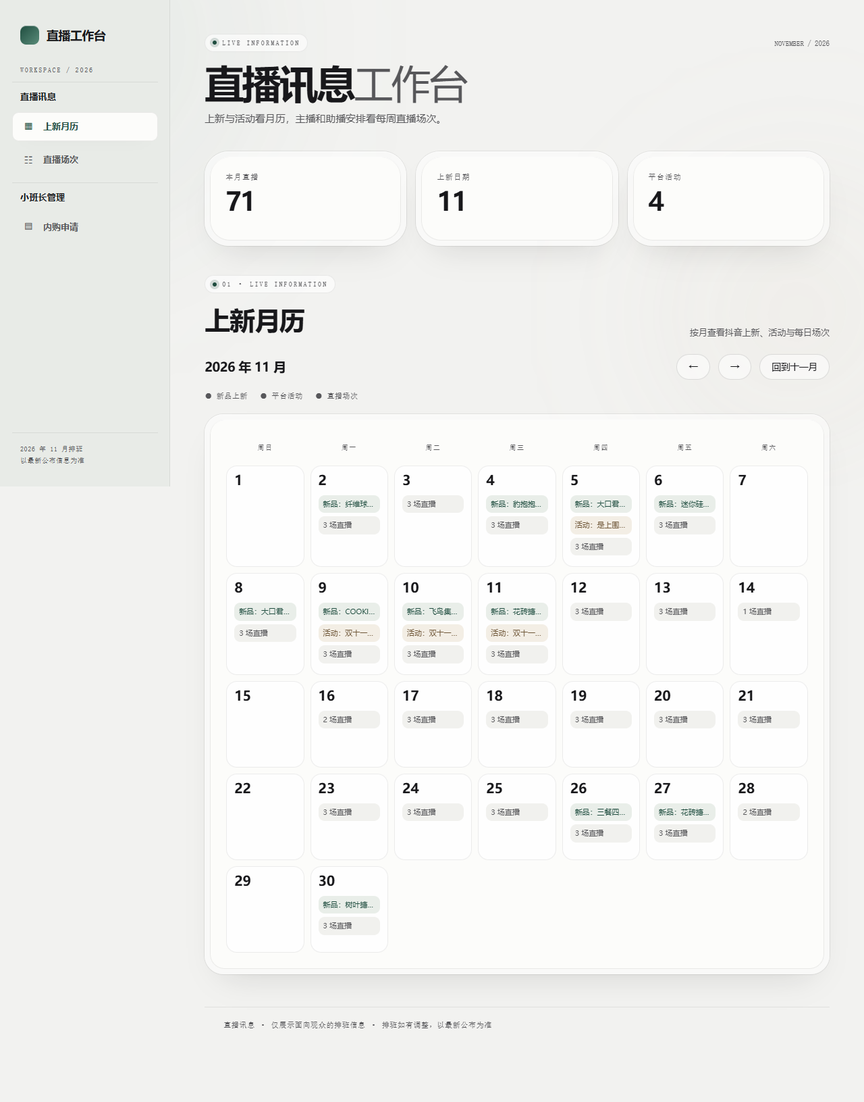
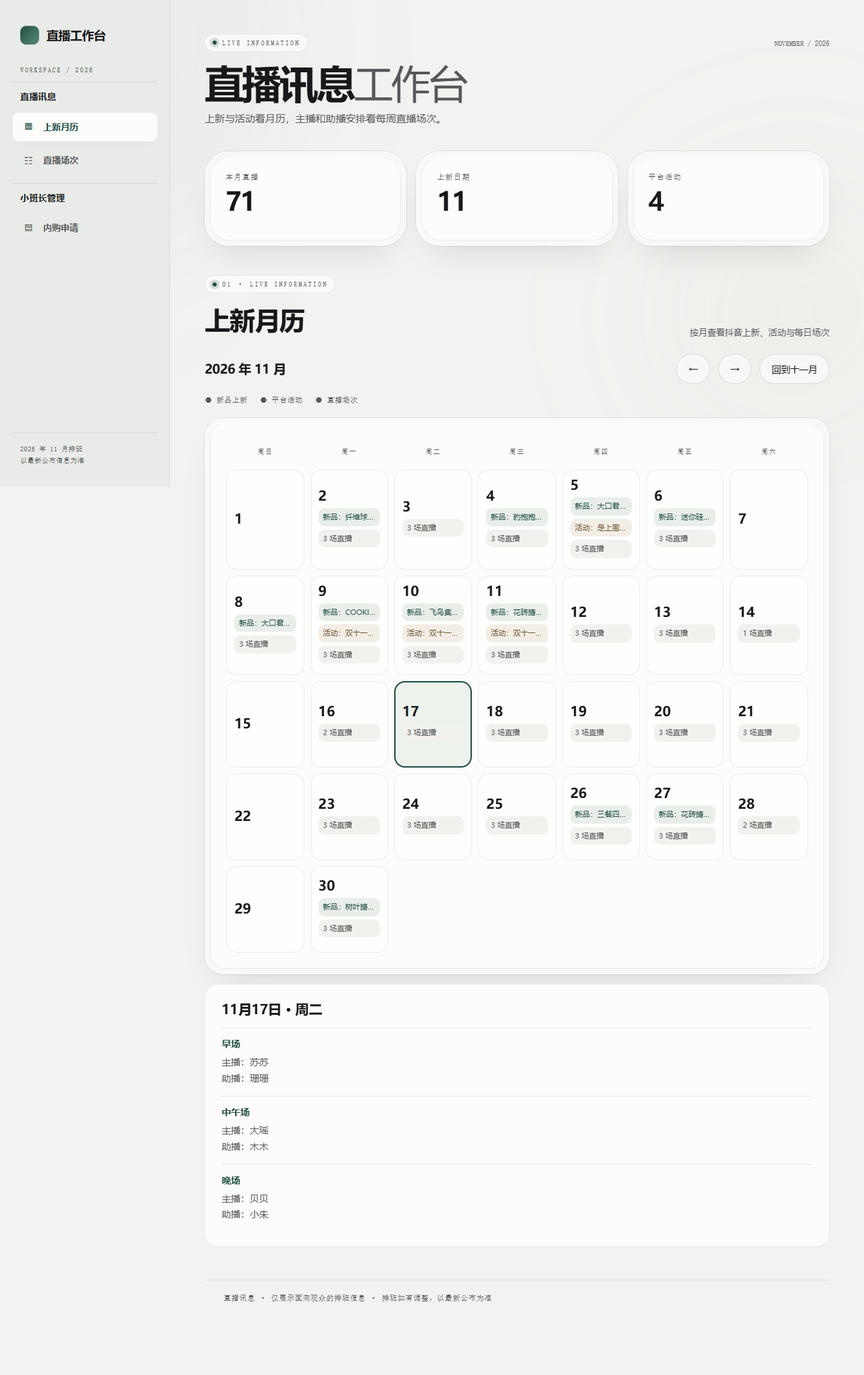
好的，现在还有一个问题，你做的这个工作台，系统排班需要跟手机显示对齐，因为小班长大部分都是用手机点开系统，基本不会用电脑，所以你的这些视图也好，提交页面也好，都得做一下手机方便看的视图，尤其是日历

diff --git a/index.html b/index.html
@@ -363,4 +363,8 @@ button{font-family:inherit} .nav button{white-space:nowrap}.nav ul button{border
 /* Workbench layout: square sidebar, soft nested content surfaces. */
 body{background:var(--canvas)}.mesh{opacity:.55}.workspace{display:grid;grid-template-columns:252px minmax(0,1fr);min-height:100dvh;position:relative;z-index:1}.sidebar{position:sticky;top:0;height:100dvh;padding:30px 18px;background:#e8ebe7;box-shadow:inset -1px 0 0 var(--hairline);display:flex;flex-direction:column}.side-brand{display:flex;align-items:center;gap:11px;padding:8px 12px 32px;font-size:18px;font-weight:700;letter-spacing:-.03em}.side-brand .brand-mark{width:28px;height:28px;border-radius:9px;background:linear-gradient(135deg,var(--accent),var(--accent-glow));box-shadow:inset 0 1px 0 rgba(255,255,255,.35)}.side-caption{font:10px var(--mono);letter-spacing:.18em;color:var(--muted);padding:0 12px 12px}.side-group{padding:12px 0;border-top:1px solid var(--hairline)}.side-group h2{font-size:13px;letter-spacing:.02em;margin:0 12px 12px;color:var(--ink)}.side-nav{display:grid;gap:5px}.side-nav button{width:100%;text-align:left;display:flex;align-items:center;gap:12px;padding:12px 14px;background:transparent;border:0;border-radius:10px;color:var(--muted);font:600 13px var(--sans);cursor:pointer;transition:background 300ms var(--ease),transform 300ms var(--ease)}.side-nav button:hover{background:rgba(255,255,255,.5)}.side-nav button.active{background:#fcfcfa;color:var(--accent);box-shadow:inset 0 0 0 1px var(--hairline),0 10px 24px -20px rgba(10,10,10,.2)}.side-nav .nav-icon{font:15px var(--mono);width:20px;text-align:center}.side-foot{margin-top:auto;padding:15px 12px 0;border-top:1px solid var(--hairline);font:10px/1.7 var(--mono);letter-spacing:.06em;color:var(--muted)}.workspace-main{min-width:0;padding:48px clamp(24px,4vw,68px) 72px;max-width:1600px;width:100%;margin:auto}.workspace-top{display:flex;align-items:flex-start;justify-content:space-between;gap:24px;margin-bottom:36px}.workspace-top h1{font-size:clamp(38px,4.5vw,64px);letter-spacing:-.04em;line-height:1.04;margin:17px 0 12px}.workspace-top p{max-width:56ch;color:var(--muted);margin:0;font-size:15px}.top-note{font:11px var(--mono);color:var(--muted);white-space:nowrap;padding-top:10px}.overview{display:grid;grid-template-columns:repeat(3,minmax(0,1fr));gap:14px;margin-bottom:42px}.overview .b-card .core{padding:23px;min-height:124px}.overview .b-card .meta{margin-bottom:8px}.overview .stat{margin-top:0}.overview .stat .big{font-size:38px}.section-title{display:flex;align-items:end;justify-content:space-between;gap:20px;margin-bottom:22px}.section-title h2{font-size:clamp(26px,3vw,38px);margin:11px 0 0;letter-spacing:-.03em}.section-title p{margin:0;color:var(--muted);font-size:13px}.calendar-section{padding-top:0}.calendar-shell{border-radius:28px}.calendar-core{border-radius:22px}.calendar-tools{margin-bottom:18px}.calendar-tools h3{font-size:19px}.week-grid{grid-template-columns:repeat(7,minmax(175px,1fr));gap:10px}.week-card .core{padding:18px;min-height:330px}.week-card h3{font-size:17px}.workspace-footer{margin-top:48px;padding-top:20px;border-top:1px solid var(--hairline);font:11px var(--mono);color:var(--muted)}@media(max-width:1050px){.workspace{grid-template-columns:210px minmax(0,1fr)}.sidebar{padding:22px 12px}.workspace-main{padding:36px 22px}.week-grid{grid-template-columns:repeat(7,minmax(190px,1fr))}}@media(max-width:767px){.workspace{display:block}.sidebar{height:auto;position:relative;padding:14px 18px 16px}.side-brand{padding:0 0 12px}.side-caption,.side-foot{display:none}.side-group{padding:10px 0 0}.side-group h2{margin:0 0 10px}.side-nav{display:grid;grid-template-columns:1fr 1fr}.side-nav button{padding:10px 8px;font-size:12px}.workspace-main{padding:26px 16px 56px}.workspace-top{display:block;margin-bottom:22px}.workspace-top h1{font-size:38px}.top-note{padding-top:16px}.overview{grid-template-columns:repeat(3,minmax(0,1fr));gap:6px;margin-bottom:32px}.overview .b-card{padding:4px;border-radius:18px}.overview .b-card .core{min-height:95px;padding:10px;border-radius:14px}.overview .b-card .meta{font-size:8px;letter-spacing:.05em}.overview .stat .big{font-size:24px}.overview .stat .unit{font-size:9px}.section-title{display:block}.section-title p{margin-top:8px}.week-grid{grid-template-columns:1fr}}
 .purchase-content{max-width:820px;margin:auto;padding:clamp(20px,4vw,44px)}.purchase-alert{padding:16px 18px;background:#f3eee5;color:#6f5738;border-radius:12px;font-weight:600}.purchase-rules{display:grid;gap:8px;padding:20px 0;border-bottom:1px solid var(--hairline)}.purchase-rules strong{font-size:22px;color:var(--accent)}.purchase-rules span,.purchase-note{color:var(--muted);font-size:13px;line-height:1.7}.purchase-fields{display:grid;grid-template-columns:repeat(2,minmax(0,1fr));gap:16px;margin-top:24px}.purchase-fields label{display:grid;gap:7px;font-size:13px;font-weight:600;position:relative}.purchase-fields input,.purchase-fields textarea{width:100%;border:1px solid var(--hairline-strong);border-radius:10px;padding:12px;font:inherit;background:white;color:var(--ink)}.purchase-fields :disabled{background:#f2f2ef;color:#767676;cursor:not-allowed}.purchase-selection,.address-field{grid-column:1/-1}.purchase-selection{padding:13px;margin:0;background:#edf2ed;border-radius:10px;color:var(--accent);font-size:13px}.product-options{position:absolute;top:100%;left:0;right:0;z-index:5;background:white;box-shadow:0 8px 24px #0002}.product-option{display:block;width:100%;text-align:left;padding:10px;background:white;border:0;cursor:pointer}.purchase-estimate{font-size:13px;color:var(--muted)}#purchaseSubmit{border:0;border-radius:10px;padding:13px 20px;background:#b4bcb6;color:white;font-weight:600;cursor:not-allowed}@media(max-width:767px){.purchase-fields{grid-template-columns:1fr}.side-nav{grid-template-columns:1fr 1fr}}
-</style></head><body><div class="mesh" aria-hidden="true"></div><div class="workspace"><aside class="sidebar" aria-label="工作台导航"><div class="side-brand"><span class="brand-mark"></span><span>直播工作台</span></div><div class="side-caption">WORKSPACE / 2026</div><div class="side-group"><h2>直播讯息</h2><nav class="side-nav"><button data-tab="month" class="active" aria-pressed="true"><span class="nav-icon">▦</span>上新月历</button><button data-tab="week" aria-pressed="false"><span class="nav-icon">☷</span>直播场次</button></nav></div><div class="side-group"><h2>小班长管理</h2><nav class="side-nav"><button data-tab="purchase" aria-pressed="false"><span class="nav-icon">▤</span>内购申请</button></nav></div><div class="side-foot">2026 年 11 月排班<br>以最新公布信息为准</div></aside><main class="workspace-main"><header class="workspace-top"><div><span class="eyebrow"><span class="dot"></span>LIVE INFORMATION</span><h1>直播讯息<span style="color:var(--muted);font-weight:500">工作台</span></h1><p>上新与活动看月历，主播和助播安排看每周直播场次。</p></div><div class="top-note">NOVEMBER / 2026</div></header><div class="overview"><div class="b-card"><div class="core"><div class="meta">本月直播</div><div class="stat"><span class="big" id="heroSlots">—</span></div></div></div><div class="b-card"><div class="core"><div class="meta">上新日期</div><div class="stat"><span class="big" id="heroNew">—</span></div></div></div><div class="b-card"><div class="core"><div class="meta">平台活动</div><div class="stat"><span class="big" id="heroEvents">—</span></div></div></div></div><section class="calendar-section" id="schedule"><div id="monthView"><div class="section-title"><div><span class="eyebrow"><span class="dot"></span>01 · LIVE INFORMATION</span><h2>上新月历</h2></div><p>按月查看抖音上新、活动与每日场次</p></div><div class="calendar-tools"><h3 id="monthTitle"></h3><button class="ghost" id="prev" aria-label="上个月">←</button><button class="ghost" id="next" aria-label="下个月">→</button><button class="ghost" id="today">回到十一月</button></div><div class="legend"><span>● 新品上新</span><span>● 平台活动</span><span>● 直播场次</span></div><div class="calendar-shell"><div class="calendar-core"><div class="calendar-grid" id="calendar"></div></div></div></div><div id="weekView" class="hide"><div class="section-title"><div><span class="eyebrow"><span class="dot"></span>02 · LIVE INFORMATION</span><h2>直播场次</h2></div><p>按周查看场次、主播和助播</p></div><div class="calendar-tools"><h3 id="weekTitle"></h3><button class="ghost" id="weekPrev" aria-label="上一周">←</button><button class="ghost" id="weekNext" aria-label="下一周">→</button><button class="ghost" id="weekToday">本周</button></div><div class="week-grid" id="weekList"></div></div><div id="purchaseView" class="hide"><div class="section-title"><div><span class="eyebrow"><span class="dot"></span>03 · GROUP MANAGEMENT</span><h2>小班长内购</h2></div><p>登录提交 · 提交后只读 · 管理员维护</p></div><div class="calendar-shell"><div class="calendar-core purchase-content"><p class="purchase-alert" id="purchaseNotice" role="status"></p><div class="purchase-rules"><strong>月度预算 ¥200</strong><span>按登录账号与填写月份累计；超额不超过 ¥10 免补，超出 ¥10 后按全部超额的 80% 补差。提交时锁定单价。</span></div><form id="purchaseForm"><div class="purchase-fields"><label>内购月份<input id="purchaseMonth" type="month" required disabled></label><label>销售品名搜索<input id="productSearch" type="search" placeholder="启用后搜索销售品名" autocomplete="off" disabled><span id="productOptions" class="product-options"></span></label><p class="purchase-selection" id="chosenProduct">尚未选择商品；编码由商品记录自动带出，不可填写。</p><label>数量<input id="purchaseQuantity" type="number" min="1" step="1" value="1" required disabled></label><label>收货人<input type="text" autocomplete="name" required disabled></label><label>联系电话<input type="tel" autocomplete="tel" required disabled></label><label class="address-field">详细地址<textarea autocomplete="street-address" rows="3" required disabled></textarea></label></div><p id="orderEstimate" class="purchase-estimate">选择商品后显示本单商品金额。</p><button id="purchaseSubmit" type="submit" disabled>订单服务未启用，暂不可提交</button></form><p class="purchase-note">当前不收集或保存任何收货信息。数据库与权限验证完成后才会开放填写与提交。</p></div></div></div></section><footer class="workspace-footer">直播讯息 · 仅展示面向观众的排班信息 · 排班如有调整，以最新公布为准</footer></main></div><script type="module" src="/calendar.js"></script><script type="module" src="/purchase.js"></script></body></html>
+/* Compact monthly overview + readable selected-day details on touch screens. */
+.day-detail{margin-top:14px;padding:22px 24px;border:1px solid var(--hairline);border-radius:20px;background:#fcfcfa}.day-detail h3{margin:0 0 12px;font-size:20px}.day-detail .detail-line{margin:8px 0;overflow-wrap:anywhere;font-size:14px}.day-detail .detail-line strong{color:var(--accent)}.day-detail .slot{font-size:14px}.day-detail .empty{margin:8px 0}.day.selected{outline:2px solid var(--accent);outline-offset:-2px;background:#edf2ed}.day[data-date]{cursor:pointer;text-align:left;border:0;font:inherit;color:inherit}.day[data-date]:focus-visible{outline:3px solid var(--accent);outline-offset:2px}.mobile-day-indicators{display:none}.calendar-tools button{min-width:44px;min-height:44px}.side-nav button{min-height:44px}
+@media(max-width:767px){.sidebar{padding:12px 16px;box-shadow:0 1px 0 var(--hairline)}.side-brand{padding-bottom:6px}.side-group{border:0;padding:4px 0}.side-group h2{font-size:11px;margin:0 0 4px}.side-nav{grid-template-columns:repeat(2,minmax(0,1fr));gap:6px}.side-nav button{min-width:0;justify-content:center;padding:10px 6px;border-radius:8px}.workspace-main{padding:24px 14px 56px}.workspace-top h1{font-size:31px;margin:10px 0}.workspace-top p{font-size:13px}.top-note{display:none}.overview{gap:5px;margin-bottom:26px}.overview .b-card .core{padding:8px;min-height:80px}.overview .stat .big{font-size:22px}.calendar-core{padding:8px}.calendar-shell{padding:4px;border-radius:18px}.calendar-core{border-radius:14px}.calendar-grid{gap:3px}.dow{padding:7px 0}.day{min-height:61px;padding:5px 3px;border-radius:8px;display:flex;flex-direction:column;align-items:center;justify-content:flex-start}.day .num{font-size:14px;margin:1px 0 5px}.day .chip{display:none}.mobile-day-indicators{display:flex;gap:3px;justify-content:center;flex-wrap:wrap}.mobile-day-indicators i{width:5px;height:5px;border-radius:50%;background:var(--accent)}.mobile-day-indicators i.event{background:#ad8250}.mobile-day-indicators i.live{background:#798c83}.day-detail{padding:18px 16px;border-radius:14px}.day-detail h3{font-size:18px}.calendar-tools{display:grid;grid-template-columns:1fr 44px 44px auto;gap:6px}.calendar-tools h3{width:auto;margin:auto 0;font-size:15px}.calendar-tools .ghost{padding:8px 10px;min-width:44px}.legend{gap:10px;font-size:10px}.week-grid{overflow:visible;display:grid;grid-template-columns:1fr;gap:10px;padding-bottom:0}.week-card .core{padding:16px;min-height:0}.week-card h3{font-size:16px;margin:7px 0}.slot{font-size:13px}.purchase-content{padding:18px 14px}.purchase-fields{gap:14px}.purchase-fields input,.purchase-fields textarea{min-height:48px;font-size:16px}.purchase-rules{padding:14px 0}#purchaseSubmit{width:100%;min-height:48px}.section-title{margin-bottom:16px}.section-title h2{font-size:25px}.section-title p{font-size:12px}.workspace-footer{line-height:1.6}}
+@media(max-width:360px){.workspace-main{padding-inline:10px}.calendar-tools{grid-template-columns:1fr 40px 40px auto}.calendar-tools h3{font-size:13px}.calendar-tools .ghost{min-width:40px;padding:6px}.day{min-height:56px}.overview .b-card .meta{font-size:7px}}
+</style></head><body><div class="mesh" aria-hidden="true"></div><div class="workspace"><aside class="sidebar" aria-label="工作台导航"><div class="side-brand"><span class="brand-mark"></span><span>直播工作台</span></div><div class="side-caption">WORKSPACE / 2026</div><div class="side-group"><h2>直播讯息</h2><nav class="side-nav"><button data-tab="month" class="active" aria-pressed="true"><span class="nav-icon">▦</span>上新月历</button><button data-tab="week" aria-pressed="false"><span class="nav-icon">☷</span>直播场次</button></nav></div><div class="side-group"><h2>小班长管理</h2><nav class="side-nav"><button data-tab="purchase" aria-pressed="false"><span class="nav-icon">▤</span>内购申请</button></nav></div><div class="side-foot">2026 年 11 月排班<br>以最新公布信息为准</div></aside><main class="workspace-main"><header class="workspace-top"><div><span class="eyebrow"><span class="dot"></span>LIVE INFORMATION</span><h1>直播讯息<span style="color:var(--muted);font-weight:500">工作台</span></h1><p>上新与活动看月历，主播和助播安排看每周直播场次。</p></div><div class="top-note">NOVEMBER / 2026</div></header><div class="overview"><div class="b-card"><div class="core"><div class="meta">本月直播</div><div class="stat"><span class="big" id="heroSlots">—</span></div></div></div><div class="b-card"><div class="core"><div class="meta">上新日期</div><div class="stat"><span class="big" id="heroNew">—</span></div></div></div><div class="b-card"><div class="core"><div class="meta">平台活动</div><div class="stat"><span class="big" id="heroEvents">—</span></div></div></div></div><section class="calendar-section" id="schedule"><div id="monthView"><div class="section-title"><div><span class="eyebrow"><span class="dot"></span>01 · LIVE INFORMATION</span><h2>上新月历</h2></div><p>按月查看抖音上新、活动与每日场次</p></div><div class="calendar-tools"><h3 id="monthTitle"></h3><button class="ghost" id="prev" aria-label="上个月">←</button><button class="ghost" id="next" aria-label="下个月">→</button><button class="ghost" id="today">回到十一月</button></div><div class="legend"><span>● 新品上新</span><span>● 平台活动</span><span>● 直播场次</span></div><div class="calendar-shell"><div class="calendar-core"><div class="calendar-grid" id="calendar"></div></div></div><div id="dayDetail" class="day-detail" aria-live="polite"></div></div><div id="weekView" class="hide"><div class="section-title"><div><span class="eyebrow"><span class="dot"></span>02 · LIVE INFORMATION</span><h2>直播场次</h2></div><p>按周查看场次、主播和助播</p></div><div class="calendar-tools"><h3 id="weekTitle"></h3><button class="ghost" id="weekPrev" aria-label="上一周">←</button><button class="ghost" id="weekNext" aria-label="下一周">→</button><button class="ghost" id="weekToday">本周</button></div><div class="week-grid" id="weekList"></div></div><div id="purchaseView" class="hide"><div class="section-title"><div><span class="eyebrow"><span class="dot"></span>03 · GROUP MANAGEMENT</span><h2>小班长内购</h2></div><p>登录提交 · 提交后只读 · 管理员维护</p></div><div class="calendar-shell"><div class="calendar-core purchase-content"><p class="purchase-alert" id="purchaseNotice" role="status"></p><div class="purchase-rules"><strong>月度预算 ¥200</strong><span>按登录账号与填写月份累计；超额不超过 ¥10 免补，超出 ¥10 后按全部超额的 80% 补差。提交时锁定单价。</span></div><form id="purchaseForm"><div class="purchase-fields"><label>内购月份<input id="purchaseMonth" type="month" required disabled></label><label>销售品名搜索<input id="productSearch" type="search" placeholder="启用后搜索销售品名" autocomplete="off" disabled><span id="productOptions" class="product-options"></span></label><p class="purchase-selection" id="chosenProduct">尚未选择商品；编码由商品记录自动带出，不可填写。</p><label>数量<input id="purchaseQuantity" type="number" min="1" step="1" value="1" required disabled></label><label>收货人<input type="text" autocomplete="name" required disabled></label><label>联系电话<input type="tel" autocomplete="tel" required disabled></label><label class="address-field">详细地址<textarea autocomplete="street-address" rows="3" required disabled></textarea></label></div><p id="orderEstimate" class="purchase-estimate">选择商品后显示本单商品金额。</p><button id="purchaseSubmit" type="submit" disabled>订单服务未启用，暂不可提交</button></form><p class="purchase-note">当前不收集或保存任何收货信息。数据库与权限验证完成后才会开放填写与提交。</p></div></div></div></section><footer class="workspace-footer">直播讯息 · 仅展示面向观众的排班信息 · 排班如有调整，以最新公布为准</footer></main></div><script type="module" src="/calendar.js"></script><script type="module" src="/purchase.js"></script></body></html>

diff --git a/calendar.js b/calendar.js
@@ -1,15 +1,65 @@
 import days from './november-2026.json';
-const $=id=>document.getElementById(id);
-const zh=['日','一','二','三','四','五','六'];
-const safe=value=>String(value??'').replace(/[&<>"']/g,c=>({'&':'&amp;','<':'&lt;','>':'&gt;','"':'&quot;',"'":'&#39;'}[c]));
-const fmt=d=>`${d.getFullYear()}-${String(d.getMonth()+1).padStart(2,'0')}-${String(d.getDate()).padStart(2,'0')}`;
-const byDate=new Map(days.map(d=>[d.date,d]));
-let month=new Date(2026,10,1),week=new Date(2026,10,16);
-function renderMonth(){const year=month.getFullYear(),m=month.getMonth(),count=new Date(year,m+1,0).getDate();$('monthTitle').textContent=`${year} 年 ${m+1} 月`;$('calendar').innerHTML=zh.map(x=>`<div class="dow">周${x}</div>`).join('')+Array.from({length:new Date(year,m,1).getDay()},()=>'<div class="day muted" aria-hidden="true"></div>').join('')+Array.from({length:count},(_,i)=>{const n=i+1,d=byDate.get(fmt(new Date(year,m,n)));return `<div class="day"><div class="num">${n}</div>${d?.new?`<span class="chip" title="${safe(d.new)}">新品：${safe(d.new)}</span>`:''}${d?.event?`<span class="chip event" title="${safe(d.event)}">活动：${safe(d.event)}</span>`:''}${d?.slots?.length?`<span class="chip live">${d.slots.length} 场直播</span>`:''}</div>`}).join('')}
-function monday(date){const d=new Date(date);d.setDate(d.getDate()-((d.getDay()+6)%7));return d}
-function renderWeek(){const start=monday(week),end=new Date(start);end.setDate(end.getDate()+6);$('weekTitle').textContent=`${fmt(start).replaceAll('-',' / ')} — ${fmt(end).slice(5).replace('-',' / ')}`;$('weekList').innerHTML=Array.from({length:7},(_,i)=>{const date=new Date(start);date.setDate(date.getDate()+i);const d=byDate.get(fmt(date));const info=[d?.new?`<div class="day-info"><div class="meta">抖音上新</div><p>${safe(d.new)}</p></div>`:'',d?.event?`<div class="day-info"><div class="meta">抖音活动</div><p>${safe(d.event)}</p></div>`:''].join('');const slots=d?.slots?.length?d.slots.map(s=>`<div class="slot"><b>${safe(s.slot)}</b><span>主播：${safe(s.host)}</span><span>助播：${safe(s.assist)}</span></div>`).join(''):'<p class="empty">当天暂无直播排班</p>';return `<article class="b-card week-card"><div class="core"><div class="meta">NOV · ${String(date.getDate()).padStart(2,'0')}</div><h3>${date.getMonth()+1}月${date.getDate()}日 · 周${zh[date.getDay()]}</h3>${info}${slots}</div></article>`}).join('')}
-function tab(name){document.querySelectorAll('[data-tab]').forEach(b=>{b.classList.toggle('active',b.dataset.tab===name);b.setAttribute('aria-pressed',b.dataset.tab===name?'true':'false')});$('monthView').classList.toggle('hide',name!=='month');$('weekView').classList.toggle('hide',name!=='week');$('purchaseView').classList.toggle('hide',name!=='purchase');if(name==='week')renderWeek();document.getElementById('schedule').scrollIntoView({behavior:'smooth',block:'start'})}
-document.querySelectorAll('[data-tab]').forEach(b=>b.addEventListener('click',()=>tab(b.dataset.tab)));
-$('prev').onclick=()=>{month.setMonth(month.getMonth()-1);renderMonth()};$('next').onclick=()=>{month.setMonth(month.getMonth()+1);renderMonth()};$('today').onclick=()=>{month=new Date(2026,10,1);renderMonth()};$('weekPrev').onclick=()=>{week.setDate(week.getDate()-7);renderWeek()};$('weekNext').onclick=()=>{week.setDate(week.getDate()+7);renderWeek()};$('weekToday').onclick=()=>{week=new Date(2026,10,16);renderWeek()};
-$('heroSlots').textContent=days.reduce((n,d)=>n+d.slots.length,0);$('heroNew').textContent=days.filter(d=>d.new).length;$('heroEvents').textContent=days.filter(d=>d.event).length;
-renderMonth();const io=new IntersectionObserver(entries=>{for(const e of entries)if(e.isIntersecting){e.target.classList.add('is-in');io.unobserve(e.target)}},{threshold:.1,rootMargin:'0px 0px -10% 0px'});document.querySelectorAll('.reveal').forEach(el=>io.observe(el));
+const $ = id => document.getElementById(id);
+const zh = ['日','一','二','三','四','五','六'];
+const safe = value => String(value ?? '').replace(/[&<>"']/g, c => ({'&':'&amp;','<':'&lt;','>':'&gt;','"':'&quot;',"'":'&#39;'}[c]));
+const fmt = d => `${d.getFullYear()}-${String(d.getMonth()+1).padStart(2,'0')}-${String(d.getDate()).padStart(2,'0')}`;
+const byDate = new Map(days.map(d => [d.date,d]));
+let month = new Date(2026,10,1), week = new Date(2026,10,16), selectedDate = '2026-11-17';
+function slotHtml(s) { return `<div class="slot"><b>${safe(s.slot)}</b><span>主播：${safe(s.host)}</span><span>助播：${safe(s.assist)}</span></div>`; }
+function detailHtml(date) {
+  const d = byDate.get(date), day = new Date(`${date}T12:00:00`);
+  const info = [d?.new ? `<p class="detail-line"><strong>新品上新：</strong>${safe(d.new)}</p>` : '', d?.event ? `<p class="detail-line"><strong>平台活动：</strong>${safe(d.event)}</p>` : ''].join('');
+  return `<h3>${day.getMonth()+1}月${day.getDate()}日 · 周${zh[day.getDay()]}</h3>${info}${d?.slots?.length ? d.slots.map(slotHtml).join('') : '<p class="empty">当天暂无直播排班</p>'}`;
+}
+function selectDate(date, scroll = false) {
+  selectedDate = date;
+  $('dayDetail').innerHTML = detailHtml(date);
+  document.querySelectorAll('.day[data-date]').forEach(button => {
+    const active = button.dataset.date === date;
+    button.classList.toggle('selected', active);
+    button.setAttribute('aria-pressed', String(active));
+  });
+  if (scroll && matchMedia('(max-width: 767px)').matches) $('dayDetail').scrollIntoView({behavior:'smooth',block:'nearest'});
+}
+function renderMonth() {
+  const year = month.getFullYear(), m = month.getMonth(), count = new Date(year,m+1,0).getDate();
+  $('monthTitle').textContent = `${year} 年 ${m+1} 月`;
+  if (!selectedDate.startsWith(`${year}-${String(m+1).padStart(2,'0')}-`)) selectedDate = fmt(new Date(year,m,1));
+  $('calendar').innerHTML = zh.map(x => `<div class="dow">周${x}</div>`).join('') +
+    Array.from({length:new Date(year,m,1).getDay()}, () => '<div class="day muted" aria-hidden="true"></div>').join('') +
+    Array.from({length:count}, (_,i) => {
+      const n = i+1, date = fmt(new Date(year,m,n)), d = byDate.get(date);
+      const description = [d?.new && '新品上新',d?.event && '平台活动',d?.slots?.length && `${d.slots.length} 场直播`].filter(Boolean).join('、') || '暂无排班';
+      return `<button type="button" class="day" data-date="${date}" aria-label="${m+1}月${n}日，${description}" aria-pressed="false"><span class="num">${n}</span>${d?.new ? `<span class="chip" title="${safe(d.new)}">新品：${safe(d.new)}</span>` : ''}${d?.event ? `<span class="chip event" title="${safe(d.event)}">活动：${safe(d.event)}</span>` : ''}${d?.slots?.length ? `<span class="chip live">${d.slots.length} 场直播</span>` : ''}<span class="mobile-day-indicators" aria-hidden="true">${d?.new ? '<i></i>' : ''}${d?.event ? '<i class="event"></i>' : ''}${d?.slots?.length ? '<i class="live"></i>' : ''}</span></button>`;
+    }).join('');
+  $('calendar').querySelectorAll('button[data-date]').forEach(button => button.addEventListener('click', () => selectDate(button.dataset.date,true)));
+  selectDate(selectedDate);
+}
+function monday(date) { const d = new Date(date); d.setDate(d.getDate()-((d.getDay()+6)%7)); return d; }
+function renderWeek() {
+  const start = monday(week), end = new Date(start); end.setDate(end.getDate()+6);
+  $('weekTitle').textContent = `${fmt(start).replaceAll('-',' / ')} — ${fmt(end).slice(5).replace('-',' / ')}`;
+  $('weekList').innerHTML = Array.from({length:7}, (_,i) => {
+    const date = new Date(start); date.setDate(date.getDate()+i);
+    const d = byDate.get(fmt(date));
+    const info = [d?.new ? `<div class="day-info"><div class="meta">抖音上新</div><p>${safe(d.new)}</p></div>` : '', d?.event ? `<div class="day-info"><div class="meta">抖音活动</div><p>${safe(d.event)}</p></div>` : ''].join('');
+    return `<article class="b-card week-card"><div class="core"><div class="meta">${date.getMonth()+1}月 · ${String(date.getDate()).padStart(2,'0')}</div><h3>${date.getMonth()+1}月${date.getDate()}日 · 周${zh[date.getDay()]}</h3>${info}${d?.slots?.length ? d.slots.map(slotHtml).join('') : '<p class="empty">当天暂无直播排班</p>'}</div></article>`;
+  }).join('');
+}
+function tab(name) {
+  document.querySelectorAll('[data-tab]').forEach(b => { b.classList.toggle('active',b.dataset.tab===name); b.setAttribute('aria-pressed',String(b.dataset.tab===name)); });
+  for (const view of ['month','week','purchase']) $(`${view}View`).classList.toggle('hide',name!==view);
+  if (name==='week') renderWeek();
+  $('schedule').scrollIntoView({behavior:'smooth',block:'start'});
+}
+document.querySelectorAll('[data-tab]').forEach(b => b.addEventListener('click',() => tab(b.dataset.tab)));
+$('prev').onclick = () => { month.setMonth(month.getMonth()-1); renderMonth(); };
+$('next').onclick = () => { month.setMonth(month.getMonth()+1); renderMonth(); };
+$('today').onclick = () => { month = new Date(2026,10,1); selectedDate = '2026-11-17'; renderMonth(); };
+$('weekPrev').onclick = () => { week.setDate(week.getDate()-7); renderWeek(); };
+$('weekNext').onclick = () => { week.setDate(week.getDate()+7); renderWeek(); };
+$('weekToday').onclick = () => { week = new Date(2026,10,16); renderWeek(); };
+$('heroSlots').textContent = days.reduce((n,d) => n+d.slots.length,0);
+$('heroNew').textContent = days.filter(d => d.new).length;
+$('heroEvents').textContent = days.filter(d => d.event).length;
+renderMonth();
